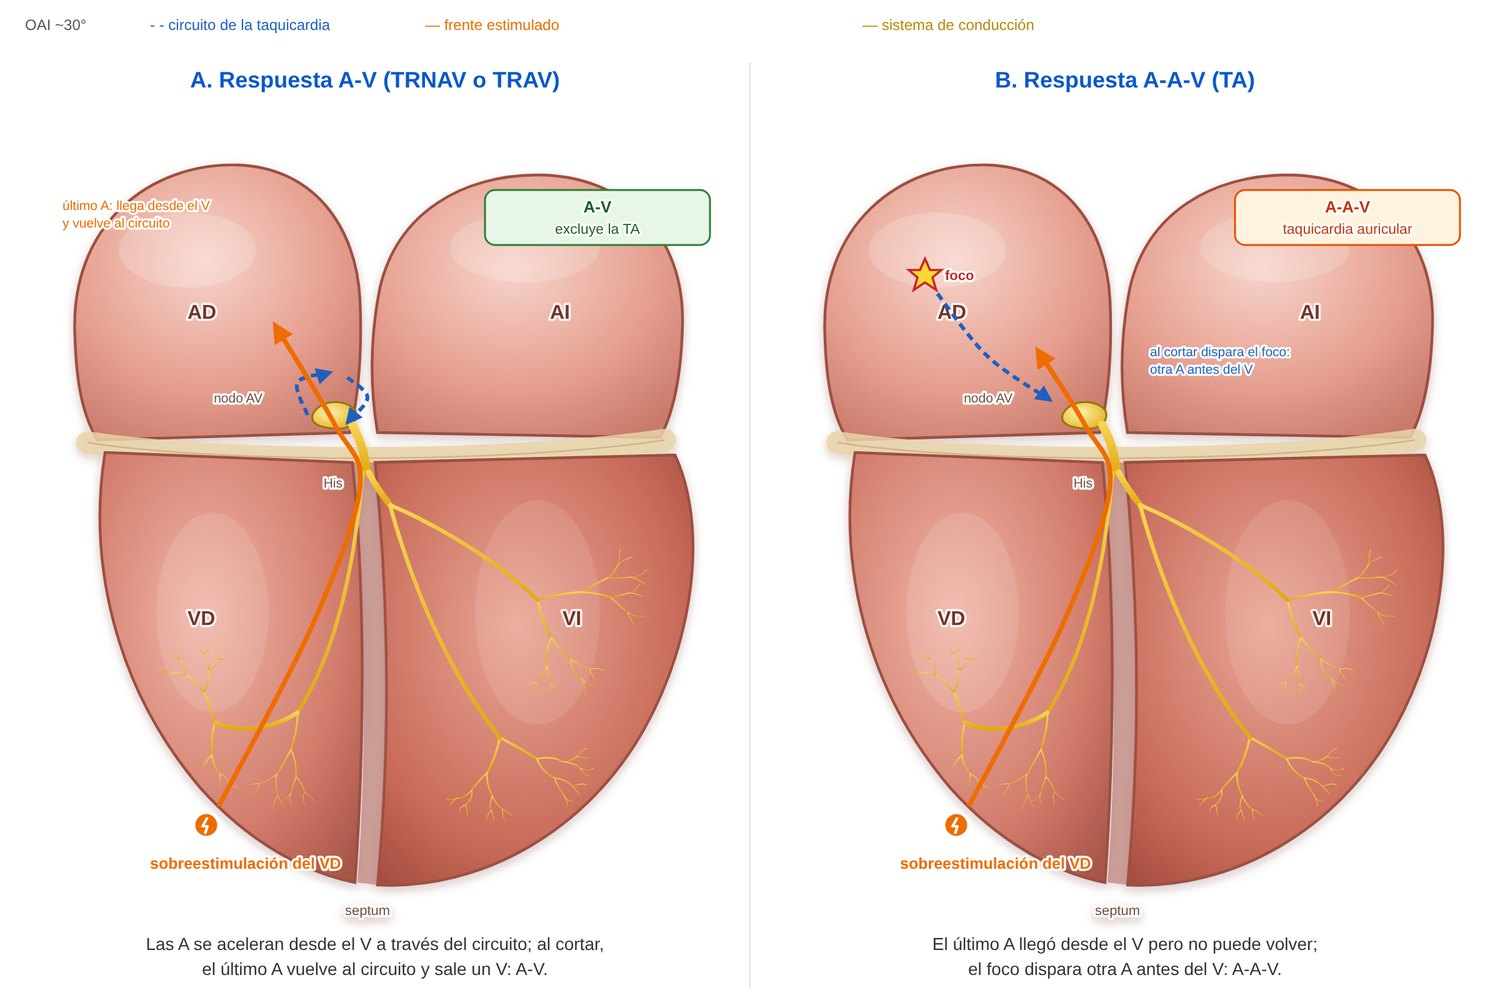
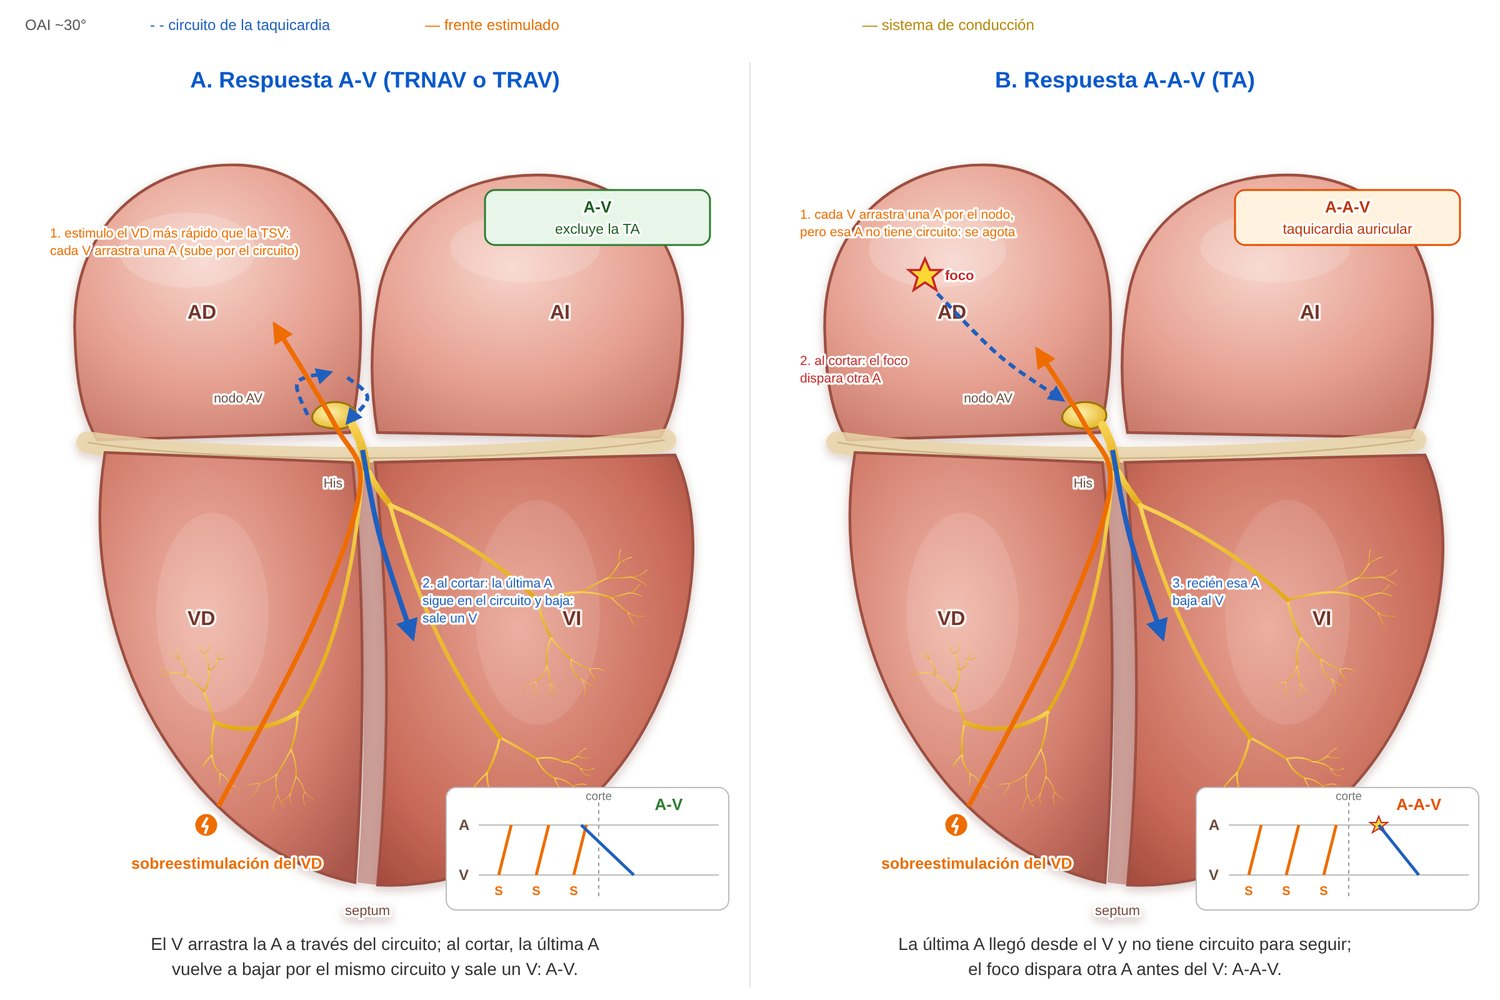
Esquema sobreestimulación ventricular: pasos numerados y mini escalera A-V / A-A-V
Claude-Session: https://claude.ai/code/session_01Pw5rjt62KK5LeJZoEyFiaM

diff --git a/sw.js b/sw.js
@@ -1,6 +1,6 @@
 // Permite instalar la app y abrirla sin conexión. Primero la red (siempre lo último publicado); si no hay, la copia.
 // Si cambiás un archivo, subí CACHE_VERSION.
-const CACHE_VERSION = 'mef-v104';
+const CACHE_VERSION = 'mef-v105';
 const ARCHIVOS = ['./', './index.html', './manifest.json', './iconos/icon-192.png', './iconos/icon-512.png'];
 self.addEventListener('install', e => e.waitUntil(caches.open(CACHE_VERSION).then(c => c.addAll(ARCHIVOS)).then(() => self.skipWaiting())));
 self.addEventListener('activate', e => e.waitUntil(caches.keys().then(ks => Promise.all(ks.filter(k => k !== CACHE_VERSION).map(k => caches.delete(k)))).then(() => self.clients.claim())));

diff --git a/herramientas/esquemas/esquemas.py b/herramientas/esquemas/esquemas.py
@@ -190,14 +190,46 @@ F['ado'] = (
      + note(330, 380, 'el V no participa', '#546e7a') + box('La TA sigue', 'con bloqueo AV', 'warn'),
      'El nodo no forma parte del mecanismo:|el foco auricular sigue disparando con bloqueo AV.'), LEG)
 
+def ladder(x, y, after, tag, ok):
+    """Mini diagrama en escalera: 3 V estimulados que arrastran la A y lo que pasa al cortar."""
+    c = GREEN if ok else '#e65100'
+    s = (f'<g transform="translate({x},{y})"><rect x="-38" y="-30" width="226" height="98" rx="8" fill="#fff" stroke="#bdbdbd"/>'
+         '<text x="-28" y="4" font-size="12" font-weight="700" fill="#6d4c41">A</text><text x="-28" y="44" font-size="12" font-weight="700" fill="#6d4c41">V</text>'
+         '<line x1="-12" y1="0" x2="180" y2="0" stroke="#bdbdbd"/><line x1="-12" y1="40" x2="180" y2="40" stroke="#bdbdbd"/>')
+    for i in range(3):
+        vx = 4 + 30 * i
+        s += (f'<line x1="{vx}" y1="40" x2="{vx + 10}" y2="0" stroke="{ORANGE}" stroke-width="2.4"/>'
+              f'<text x="{vx}" y="56" font-size="10" text-anchor="middle" fill="{ORANGE}" font-weight="700">S</text>')
+    s += '<line x1="84" y1="-18" x2="84" y2="58" stroke="#9e9e9e" stroke-dasharray="3 3"/><text x="84" y="-20" font-size="9.5" text-anchor="middle" fill="#757575">corte</text>'
+    for kind, ax, vx in after:
+        if kind == 'AV':
+            s += f'<line x1="{ax}" y1="0" x2="{vx}" y2="40" stroke="{BLUE}" stroke-width="2.4"/>'
+        else:
+            s += (f'<g transform="translate({ax},0)"><path d="M0,-7 L2,-2 L7,-2 L3,1 L5,6 L0,3 L-5,6 L-3,1 L-7,-2 L-2,-2 Z" fill="#fdd835" stroke="#c62828"/></g>'
+                  f'<line x1="{ax}" y1="0" x2="{vx}" y2="40" stroke="{BLUE}" stroke-width="2.4"/>')
+    s += f'<text x="140" y="-12" font-size="13" font-weight="700" text-anchor="middle" fill="{c}">{tag}</text></g>'
+    return s
+
+
 F['vop'] = (
-    ('A. Respuesta A-V (TRNAV o TRAV)', TRNAV + spark(APEX, 'sobreestimulación del VD') + front((175, 575), (250, 430), (288, 320), (268, 270), (220, 190))
-     + note(50, 98, 'último A: llega desde el V|y vuelve al circuito', ORANGE) + box('A-V', 'excluye la TA'),
-     'Las A se aceleran desde el V a través del circuito; al cortar,|el último A vuelve al circuito y sale un V: A-V.'),
-    ('B. Respuesta A-A-V (TA)', focus((140, 150), 'foco') + spark(APEX, 'sobreestimulación del VD')
-     + front((175, 575), (250, 430), (288, 320), (268, 270), (230, 210)) + circ((150, 165), (190, 215), (240, 250))
-     + note(320, 215, 'al cortar dispara el foco:|otra A antes del V', BLUE) + box('A-A-V', 'taquicardia auricular', 'warn'),
-     'El último A llegó desde el V pero no puede volver;|el foco dispara otra A antes del V: A-A-V.'), LEG)
+    ('A. Respuesta A-V (TRNAV o TRAV)', TRNAV + spark(APEX, 'sobreestimulación del VD', -60, 35)
+     + front((175, 575), (250, 430), (288, 320), (268, 270), (220, 190))
+     + note(40, 120, '1. estimulo el VD más rápido que la TSV:|cada V arrastra una A (sube por el circuito)', ORANGE)
+     + f'<path d="{smooth([(290, 290), (304, 360), (330, 440)])}" stroke="{BLUE}" stroke-width="4" fill="none" marker-end="url(#ab)"/>'
+     + note(338, 400, '2. al cortar: la última A|sigue en el circuito y baja:|sale un V', BLUE)
+     + ladder(395, 590, [('AV', 70, 112)], 'A-V', True)
+     + box('A-V', 'excluye la TA'),
+     'El V arrastra la A a través del circuito; al cortar, la última A|vuelve a bajar por el mismo circuito y sale un V: A-V.'),
+    ('B. Respuesta A-A-V (TA)', focus((140, 150), 'foco') + spark(APEX, 'sobreestimulación del VD', -60, 35)
+     + front((175, 575), (250, 430), (288, 320), (268, 270), (230, 210))
+     + note(40, 105, '1. cada V arrastra una A por el nodo,|pero esa A no tiene circuito: se agota', ORANGE)
+     + circ((150, 165), (200, 215), (250, 250))
+     + note(40, 222, '2. al cortar: el foco|dispara otra A', '#c62828')
+     + f'<path d="{smooth([(290, 290), (304, 360), (330, 440)])}" stroke="{BLUE}" stroke-width="4" fill="none" marker-end="url(#ab)"/>'
+     + note(338, 400, '3. recién esa A|baja al V', BLUE)
+     + ladder(395, 590, [('AAV', 108, 140)], 'A-A-V', False)
+     + box('A-A-V', 'taquicardia auricular', 'warn'),
+     'La última A llegó desde el V y no tiene circuito para seguir;|el foco dispara otra A antes del V: A-A-V.'), LEG)
 
 F['ppi'] = (
     ('A. PPI−LC corto (TRAV)', TRAV_S + via(SEPT, 'vía septal', 14, -22) + spark(BASE_VD, 'VD', -30, -20)
